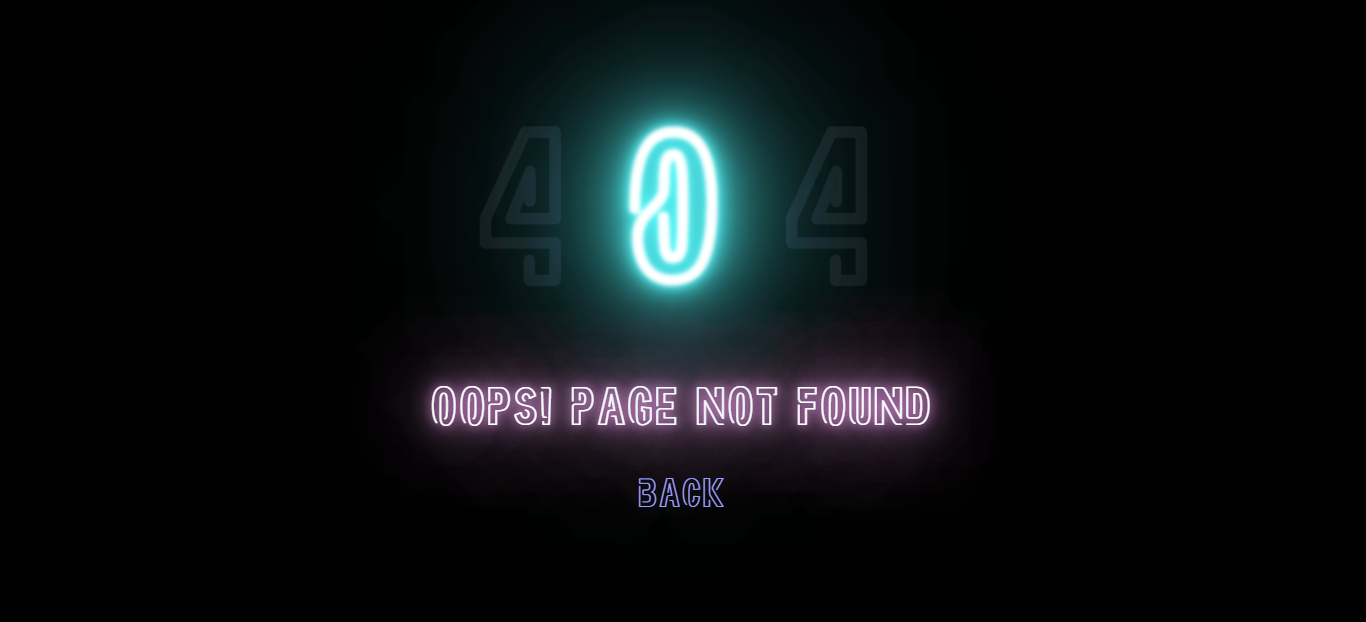
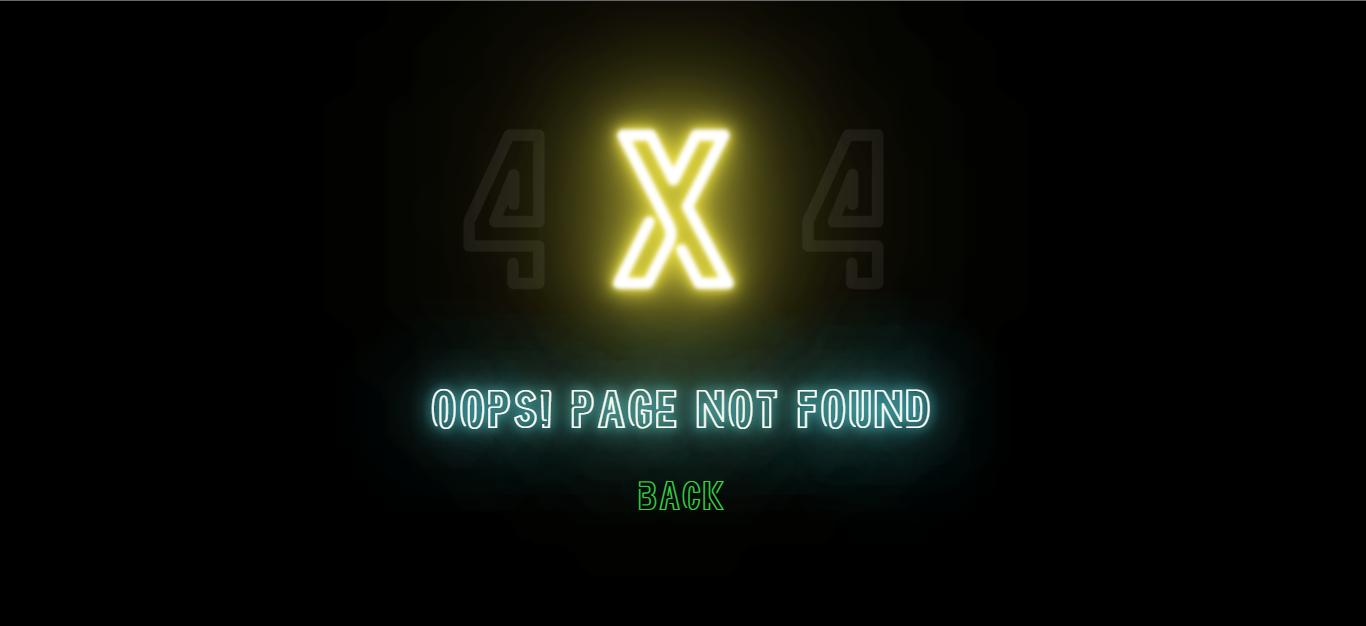
Update page 404 `Neon`

Changed region(s): [[0.3075, 0.0611, 0.7072, 0.7331], [0.4612, 0.7637, 0.5227, 0.8248]]

diff --git a/Technology/Neon/assets/style.css b/Technology/Neon/assets/style.css
@@ -21,19 +21,21 @@ body {
     font-family: 'neon', 'SH AraHalaBoShe', cursive;
     background: #000;
     color: rgb(230, 230, 230);
-    overflow: hidden !important;
+    overflow: hidden;
     -webkit-animation: Random_Color 5s linear infinite;
     -o-animation: Random_Color 5s linear infinite;
     animation: Random_Color 5s linear infinite;
 }
+
 @keyframes Random_Color {
-    0%,100%{
+    0%, 100% {
         filter: hue-rotate(0deg);
     }
-    50%{
-        filter: hue-rotate(300deg);
+    50% {
+        filter: hue-rotate(360deg);
     }
 }
+
 .Text_404 {
     padding: 0;
     display: flex;

diff --git a/Technology/Neon/index.html b/Technology/Neon/index.html
@@ -12,7 +12,7 @@
 <body>
 <h1 class="Text_404">
     <span>4</span>
-    <span>0</span>
+    <span>X</span>
     <span>4</span>
 </h1>
 <p class="description">Oops! page not found</p>
